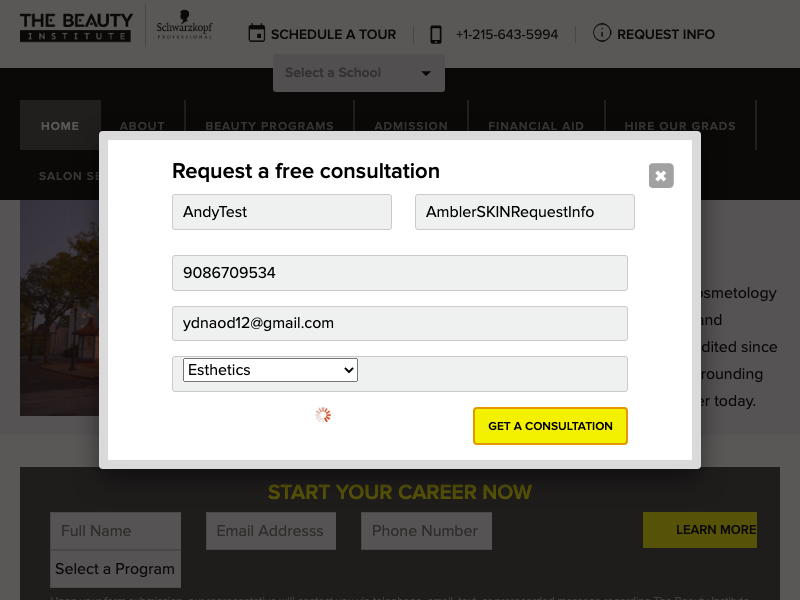
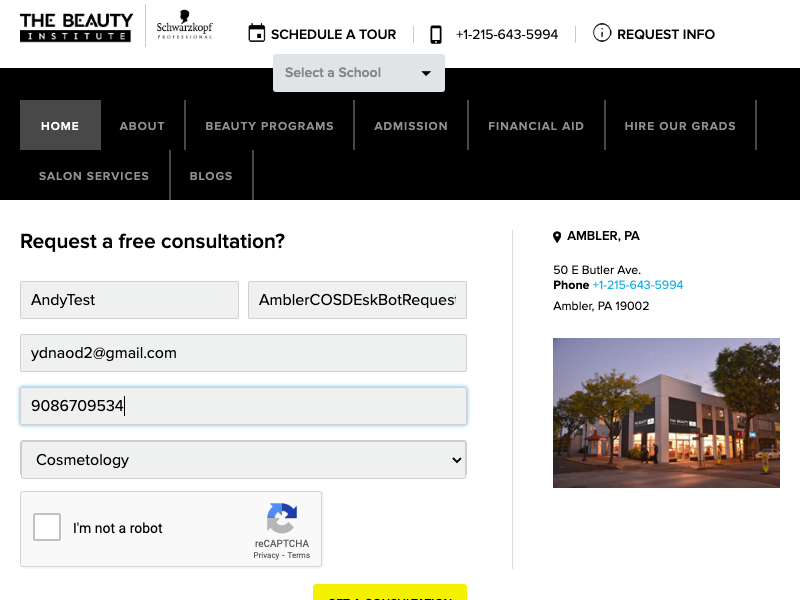
add recapture functionality, but it still doesn't submit

diff --git a/AutomatedForms.js b/AutomatedForms.js
@@ -1,10 +1,10 @@
 //const { response } = require('express');
 const config = require('./config');
-const puppeteer = require('puppeteer');
-//const puppeteer = require('puppeteer-extra');
+//const puppeteer = require('puppeteer');
+const puppeteer = require('puppeteer-extra');
 
-const RecaptchaPlugin = require('puppeteer-extra-plugin-recaptcha')
-/*puppeteer.use(
+const RecaptchaPlugin = require('puppeteer-extra-plugin-recaptcha');
+puppeteer.use(
   RecaptchaPlugin({
     provider: {
       id: '2captcha',
@@ -12,16 +12,12 @@ const RecaptchaPlugin = require('puppeteer-extra-plugin-recaptcha')
     },
     visualFeedback: true, // colorize reCAPTCHAs (violet = detected, green = solved)
   })
-)*/
+);
 
 //http://ambler.thebeautyinstituteskp.edu/
 
-//puppeteer.launch({headless:true}).then
-(async () => {
-  const browser = await puppeteer.launch();
+puppeteer.launch({headless:true}).then(async (browser) => {
   const page = await browser.newPage();
-  console.log(config.KEY)
-
   
   await page.goto('http://ambler.thebeautyinstituteskp.edu/');
   await page.solveRecaptchas();
@@ -94,11 +90,10 @@ const RecaptchaPlugin = require('puppeteer-extra-plugin-recaptcha')
  await page.type('#input_1_2', 'ydnaod2@gmail.com'); 
  await page.type('#input_1_3', '9086709534'); 
 
- await page.click(`#recaptcha-demo-submit`);
  await page.screenshot({path: 'example7.png'});
  await page.waitForTimeout(2000);
  await page.click('#gform_submit_button_1');
 
   // other actions...
   await browser.close();
-})();
+});
